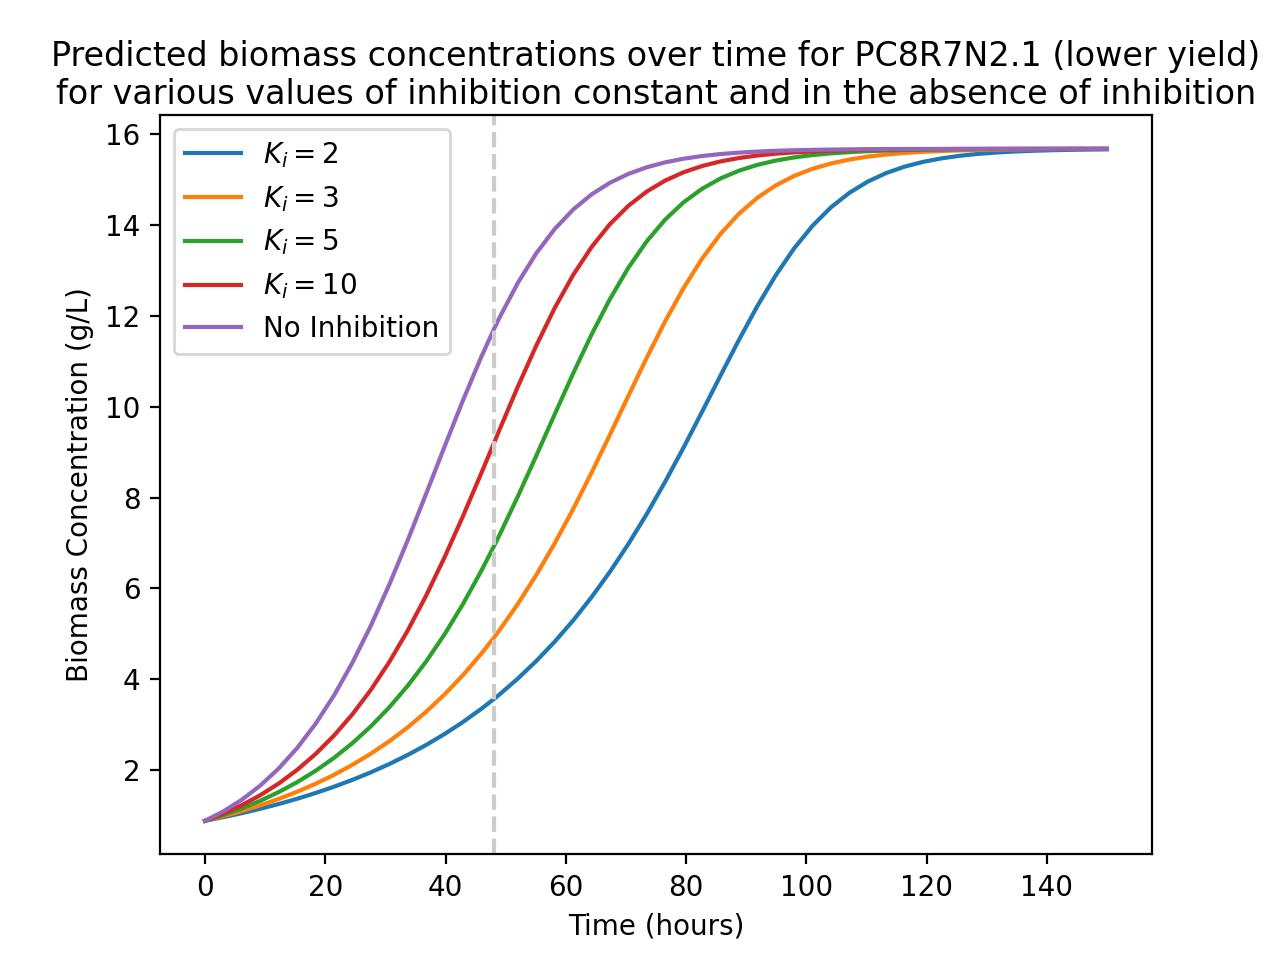
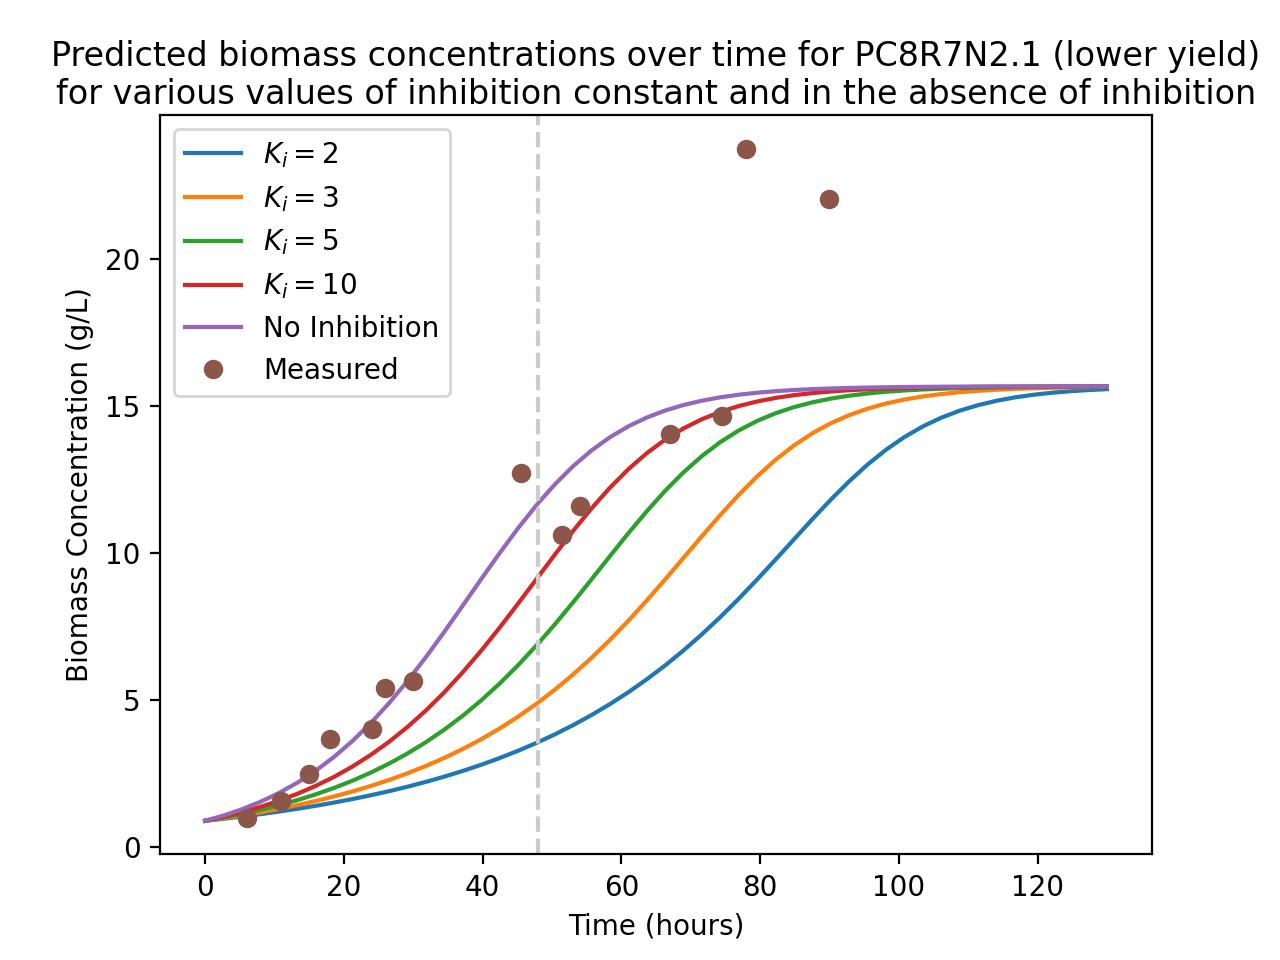
Add measured biomass to all mic. models

diff --git a/4_F_caldus.py b/4_F_caldus.py
@@ -68,7 +68,6 @@ DP3 = pH_to_AcidConc(D3pH)
 DPAve = pH_to_AcidConc(DpHAve)
 
 
-
 # Initial Conditions
 Vr = 0.250        # L
 S0mass = 10*0.6
@@ -128,12 +127,12 @@ def regress(params):
     #c = odeint(MM, b0,Dt, args=(Vmax, Km, Yps, Yxs))
     c = odeint(Monod, b0, Dt, args=(Vmax, Km, Yps, Yxs))
     cX = c[:, 0]
-    cS = c[:, 1]
+    # cS = c[:, 1]
     cP = c[:, 2]
 
-    I = (DPAve - cP)**2
+    # weight = [1, 1, 1, 0.5, 0.5, 0.5, 0.5, 0.5, 20, 20, 8, 8, 8, 3, 3, 3, 3, 3, 3]
+    I = ((DbiomassAve - cX))**2 + ((DPAve - cP))**2 # ((DbiomassAve - cX)*weight)**2 + ((DPAve - cP)*weight)**2 
     #I = (DbiomassAve - cX) **2
-    #weight = [1, 1, 1, 0.5, 0.5, 0.5, 0.5, 0.5, 20, 20, 8, 8, 8, 3, 3, 3, 3, 3, 3]
     #I = ((DPAve - cP) * weight) ** 2
 
 
@@ -199,11 +198,11 @@ cP = g[:,2]
 
 
 # plt.figure()
-# #plt.subplot(3,1,1)
-# #plt.plot(Dt, D1biomass, 'o')
-# #plt.plot(Dt, D2biomass, 'o')
-# #plt.plot(Dt, D3biomass, 'o')
-# #plt.plot(Dt, DbiomassAve, 'o')
+# plt.subplot(3,1,1)
+# plt.plot(Dt, D1biomass, 'o')
+# plt.plot(Dt, D2biomass, 'o')
+# plt.plot(Dt, D3biomass, 'o')
+# plt.plot(Dt, DbiomassAve, 'o')
 # errorX = np.array([5.00E+09, 1.24E+11, 3.06E+11, 3.08E+12, 2.81E+12, 4.62E+12, 2.99E+12, 3.96E+12, 3.07E+12, 3.15E+12, 2.38E+12, 9.00E+11, 7.09E+11, 1.99E+12, 1.21E+12, 4.04E+11, 2.25E+12, 8.08E+11, 9.64E+11])/1e12
 # plt.errorbar(Dt, DbiomassAve/1e12, yerr=errorX, fmt='.k', ecolor='black', capsize=3, label='Experimental')
 # plt.plot(t, cX/1e12, '--g', label='Model')
@@ -225,7 +224,7 @@ cP = g[:,2]
 # # plt.savefig(r'C:\Users\ylrae\OneDrive\Pictures\Results\MonodX1_sulfuricacidconc.png', dpi=150, format='png')
 
 # plt.figure()
-# #plt.plot(Dt, DpHAve, 'o')
+# plt.plot(Dt, DpHAve, 'o')
 # plt.gray()
 # errorpH = np.array([0.005773503, 0.028867513, 0.036055513, 0.045825757, 0.035118846, 0.055075705, 0.05033223, 0.011547005, 0.056862407, 0.035118846, 0.037859389, 0.045825757, 0.026457513, 0.030550505, 0.032145503, 0.02081666, 0.02081666, 0.01, 0.015275252])
 # plt.errorbar(Dt, DpHAve, yerr=errorpH, fmt='.k', ecolor='black', capsize=3, label='Experimental') #, #fmt='o')
@@ -240,16 +239,16 @@ cP = g[:,2]
 # plt.plot(t, cS, '--g', label='Model')
 # plt.xlabel('Time (h)')
 # plt.ylabel('Sulfur concentration (mol/L)')
-# plt.savefig(r'C:\Users\ylrae\OneDrive\Pictures\Results\MonodX1_sulfurconc.png', dpi=150, format='png')
-#plt.legend(['Sample 1', 'Sample 2', 'Sample 3', 'Average', 'Model'])
+# # plt.savefig(r'C:\Users\ylrae\OneDrive\Pictures\Results\MonodX1_sulfurconc.png', dpi=150, format='png')
+# plt.legend(['Sample 1', 'Sample 2', 'Sample 3', 'Average', 'Model'])
 
-c = odeint(MM, b0,Dt, args=(Vmax, Km, Yps, Yxs))
-#c = odeint(Monod, b0, Dt , args=(Vmax, Km, Yps, Yxs))
-cX = c[:, 0]
-cS = c[:, 1]
-cP = c[:, 2]
+# c = odeint(MM, b0,Dt, args=(Vmax, Km, Yps, Yxs))
+# #c = odeint(Monod, b0, Dt , args=(Vmax, Km, Yps, Yxs))
+# cX = c[:, 0]
+# cS = c[:, 1]
+# cP = c[:, 2]
 
-plt.show()
+# plt.show()
 
 
 ##############################################################################
@@ -260,7 +259,7 @@ from inhibition import plot_inhibition_curves, haldane_with_products
 from control import show_fig
 
 xvline = 216
-times = sorted( np.concatenate( ([xvline], np.linspace(1e-5, 650)) ) )
+times = sorted( np.concatenate( ([xvline], np.linspace(1e-5, Dt[-1])) ) )
 
 Kis = [0.0005, 0.001, 0.002] #np.logspace(-4, -2, 4) #(1, 200, 5) # [1, 1.7, 3]
 args = (Vmax, Km, Yps, Yxs)
@@ -279,7 +278,10 @@ plot_inhibition_curves(
     mic_name,
     xvline,
     show_fig=show_fig,
-    cells=12
+    # cells=12,
+    cells=True,
+    measured_data=DbiomassAve,
+    measured_times=Dt
 )
 
 # remove ki=1 curve

diff --git a/inhibition.py b/inhibition.py
@@ -54,7 +54,7 @@ def plot_inhibition_curves(
     xvline,
     save_fig=True,
     show_fig=True,
-    cells=0, # toggle between mass and cell number concentration (cells = order of magnitude of cell number)
+    cells=True, # toggle between mass and cell number concentration (cells = order of magnitude of cell number)
     measured_data=None,
     measured_times=None
     ):
@@ -62,7 +62,6 @@ def plot_inhibition_curves(
 
     # Create figure
     plt.figure()
-    ylabel = 'Biomass Concentration (g/L)'
 
     # Plot inhibited growth curves (for each item in kis)
     for ki in inhibs:
@@ -71,14 +70,6 @@ def plot_inhibition_curves(
         cX = g[:,0] # Biomass concentration
         label='$K_i = $' + str(ki)
 
-        if cells:
-            scale = 10**(cells) 
-            # cX /= scale
-            # zero_inhib /= scale
-            ylabel = f'Biomass Concentration ($10^{cells}$ cells/L)'
-            # if measured_data is not None:
-            #     measured_data /= scale
-
         plt.plot(
             eval_times,
             cX,
@@ -86,6 +77,23 @@ def plot_inhibition_curves(
             label='$K_i = $' + str(round( ki, 5 ) )
             )
 
+    if cells:
+        ylabel = 'Biomass Concentration (cells/L)'
+    else:
+        ylabel = 'Biomass Concentration (g/L)'
+
+            # scale = 10**(cells) 
+            # cX /= scale
+            # zero_inhib /= scale
+            # cells_s = str(cells)
+            # if len(cells_s) > 1:
+            #     ylabel = f'Biomass Concentration ($10^{cells_s[0]}$' + f'$^{cells_s[1]}$ cells/L)'
+            # else:
+            #     ylabel = f'Biomass Concentration ($10^{cells_s}$ cells/L)'
+
+            # if measured_data is not None:
+            #     measured_data /= scale
+    
     # Plot curve for ZERO inhibition (pure Monod dynamics)
     plt.plot(
         eval_times,

diff --git a/5_A_niger.py b/5_A_niger.py
@@ -121,7 +121,7 @@ from inhibition import plot_inhibition_curves, haldane
 from control import show_fig
 
 xvline = 48
-times = sorted( np.concatenate( ([xvline], np.linspace(1e-5, 500)) ) )
+times = sorted( np.concatenate( ([xvline], np.linspace(1e-5, 500)) ) ) # end 500
 Kis = [2, 3, 5, 10]
 args = (umax, Ks, Yxs)
 
@@ -137,5 +137,7 @@ plot_inhibition_curves(
     haldane,
     mic_name,
     xvline,
-    show_fig=show_fig
+    show_fig=show_fig,
+    measured_data=Xy,
+    measured_times=tx
 )

diff --git a/1b_PC8R7N2_1.py b/1b_PC8R7N2_1.py
@@ -155,7 +155,7 @@ from inhibition import plot_inhibition_curves, haldane
 from control import show_fig
 
 xvline = 48
-times = sorted( np.concatenate( ([xvline], np.linspace(1e-5, 150)) ) )
+times = sorted( np.concatenate( ([xvline], np.linspace(1e-5, 130)) ) )
 Kis = [2, 3, 5, 10]
 args = (umax, Ks, Yxs)
 
@@ -171,5 +171,7 @@ plot_inhibition_curves(
     haldane,
     mic_name,
     xvline,
-    show_fig=show_fig
+    show_fig=show_fig,
+    measured_data=Xy,
+    measured_times=tx
 )

diff --git a/1a_PC8R7N2_1.py b/1a_PC8R7N2_1.py
@@ -144,7 +144,9 @@ plot_inhibition_curves(
     haldane,
     mic_name,
     xvline,
-    show_fig=show_fig
+    show_fig=show_fig,
+    measured_data=Xy,
+    measured_times=tx
 )
 
 

diff --git a/2_FBOC10N2_7.py b/2_FBOC10N2_7.py
@@ -140,7 +140,9 @@ plot_inhibition_curves(
     haldane,
     mic_name,
     xvline,
-    show_fig=show_fig
+    show_fig=show_fig,
+    measured_data=Xy,
+    measured_times=tx
 )
 
 

diff --git a/3_FBOC9N2_6.py b/3_FBOC9N2_6.py
@@ -132,6 +132,8 @@ plot_inhibition_curves(
     haldane,
     mic_name,
     xvline,
-    show_fig=show_fig
+    show_fig=show_fig,
+    measured_data=Xy,
+    measured_times=tx
 )
 

diff --git a/control.py b/control.py
@@ -1,1 +1,1 @@
-show_fig = False
+show_fig = True
